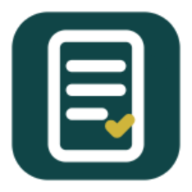
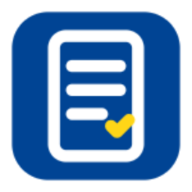
feat: update color palette and branding elements for improved consistency and accessibility

diff --git a/resources/css/app.css b/resources/css/app.css
@@ -76,7 +76,7 @@
     ::before,
     ::backdrop,
     ::file-selector-button {
-        border-color: var(--color-gray-200, currentColor);
+        border-color: var(--color-grey-10, currentColor);
     }
 }
 
@@ -91,107 +91,128 @@
 }
 
 :root {
-    /* Brand palette */
-    --ec-blue-120: #003776;
-    --ec-blue-110: #003776;
-    --ec-blue-100: #004494;
-    --ec-blue-75:  #4073AF;
-    --ec-blue-50:  #7FA1C9;
-    --ec-blue-25:  #BFD0E4;
-    --ec-blue-5:   #F2F5F9;
+    /* Primitive color scales */
+    --grey-5: #f5f5f5;
+    --grey-10: #ebebeb;
+    --grey-15: #e3e3e3;
+    --grey-25: #cfcfcf;
+    --grey-50: #9f9f9f;
+    --grey-75: #707070;
+    --grey-100: #404040;
 
-    --ec-yellow-120: #F8AE21;
-    --ec-yellow-110: #FBC11D;
-    --ec-yellow-100: #ffd617;
-    --ec-yellow-75:  #FFDE39;
-    --ec-yellow-50:  #FFE879;
-    --ec-yellow-25:  #FFF4BB;
+    --blue-5:  #f2f5f9;
+    --blue-25: #bfd0e4;
+    --blue-50: #7fa1c9;
+    --blue-75: #4073af;
+    --blue-100: #004494;
+    --blue-110: #003776;
+    --blue-120: #003776;
 
-    --ec-grey-100: #404040;
-    --ec-grey-75:  #707070;
-    --ec-grey-50:  #9F9F9F;
-    --ec-grey-25:  #CFCFCF;
-    --ec-grey-15:  #E3E3E3;
-    --ec-grey-10:  #EBEBEB;
-    --ec-grey-5:   #F5F5F5;
+    --yellow-25: #fff4bb;
+    --yellow-50: #ffe879;
+    --yellow-75: #ffde39;
+    --yellow-100: #ffd617;
+    --yellow-110: #fbc11d;
+    --yellow-120: #f8ae21;
 
+    --red-n: #da2131;
+    --green-n: #467a39;
+    --orange-n: #f29527;
+    --blue-n: #006fb4;
+    --white: #ffffff;
     --black: #000000;
-    --white: #FFFFFF;
 
-    /* Notification palette */
-    --ec-blue-n:   #006FB4;
-    --ec-orange-n: #F29527;
-    --ec-green-n:  #467A39;
-    --ec-red-n:    #DA2131;
+    /* Extra colors */
+    --dark-blue: #00002e;
 
-    /* Core UI roles */
+    /* Semantic tokens */
     --background: var(--white);
-    --foreground: var(--ec-grey-100);
-    --primary: var(--ec-blue-100);
-    --primary-foreground: var(--white);
-    --secondary: var(--ec-yellow-100);
-    --secondary-foreground: var(--ec-grey-100);
-    --muted: var(--ec-grey-10);
-    --muted-foreground: var(--ec-grey-75);
-    --accent: var(--ec-yellow-100);
-    --accent-foreground: var(--ec-grey-100);
-    --destructive: var(--ec-red-n);
-    --destructive-foreground: var(--white);
-    --border: var(--ec-grey-15);
-    --input: var(--ec-grey-10);
-    --ring: var(--ec-yellow-100);
+    --foreground: var(--grey-100);
+    --card: var(--white);
+    --card-foreground: var(--grey-100);
+    --popover: var(--white);
+    --popover-foreground: var(--blue-100);
 
-    /* Chart/extra roles (customize as needed) */
-    --chart-1: var(--ec-blue-100);
-    --chart-2: var(--ec-yellow-100);
-    --chart-3: var(--ec-grey-50);
-    --chart-4: var(--ec-blue-75);
-    --chart-5: var(--ec-yellow-75);
+    --primary: var(--blue-100);
+    --primary-foreground: var(--white);
+
+    --secondary: var(--yellow-100);
+    --secondary-foreground: var(--grey-100);
+
+    --muted: var(--grey-5);
+    --muted-foreground: var(--grey-75);
+
+    --accent: var(--yellow-25);
+    --accent-foreground: var(--grey-100);
+
+    --destructive: var(--red-n);
+    --destructive-foreground: var(--white);
+
+    --border: var(--grey-10);
+    --input: var(--grey-5);
+    --ring: var(--yellow-50);
+
+    --chart-1: var(--blue-75);
+    --chart-2: var(--yellow-75);
+    --chart-3: var(--grey-25);
+    --chart-4: var(--blue-50);
+    --chart-5: var(--yellow-25);
 
     --radius: 0.5rem;
 
-    /* Sidebar example */
-    --sidebar-background: var(--ec-blue-100);
-    --sidebar-foreground: var(--white);
-    --sidebar-primary: var(--ec-yellow-100);
-    --sidebar-primary-foreground: var(--ec-blue-100);
-    --sidebar-accent: var(--ec-grey-25);
-    --sidebar-accent-foreground: var(--ec-grey-100);
-    --sidebar-border: var(--ec-grey-15);
-    --sidebar-ring: var(--ec-yellow-100);
-    --sidebar: var(--ec-blue-5);
+    --sidebar-background: var(--blue-5);
+    --sidebar-foreground: var(--black);
+    --sidebar-primary: var(--blue-50);
+    --sidebar-primary-foreground: var(--black);
+    --sidebar-accent: var(--blue-25);
+    --sidebar-accent-foreground: var(--black);
+    --sidebar-border: var(--grey-10);
+    --sidebar-ring: var(--yellow-50);
+    --sidebar: var(--blue-50);
 }
 
 .dark {
-    --background: var(--ec-grey-100);
+    --background: var(--black);
     --foreground: var(--white);
-    --card: var(--ec-blue-120);
+    --card: var(--blue-120);
     --card-foreground: var(--white);
-    --popover: var(--ec-blue-120);
+    --popover: var(--blue-120);
     --popover-foreground: var(--white);
-    --primary: var(--ec-yellow-100);
-    --primary-foreground: var(--ec-blue-100);
-    --secondary: var(--ec-grey-75);
-    --secondary-foreground: var(--white);
-    --muted: var(--ec-grey-25);
-    --muted-foreground: var(--ec-grey-5);
-    --accent: var(--ec-yellow-75);
-    --accent-foreground: var(--ec-grey-100);
-    --destructive: var(--ec-red-n);
-    --destructive-foreground: var(--white);
-    --border: var(--ec-grey-25);
-    --input: var(--ec-grey-15);
-    --ring: var(--ec-yellow-100);
 
-    --sidebar-background: var(--ec-blue-120);
-    --sidebar-foreground: var(--ec-yellow-100);
-    --sidebar-primary: var(--ec-yellow-100);
-    --sidebar-primary-foreground: var(--ec-blue-120);
-    --sidebar-accent: var(--ec-grey-50);
+    --primary: var(--yellow-50);
+    --primary-foreground: var(--blue-120);
+
+    --secondary: var(--grey-50);
+    --secondary-foreground: var(--white);
+
+    --muted: var(--grey-75);
+    --muted-foreground: var(--grey-10);
+
+    --accent: var(--yellow-75);
+    --accent-foreground: var(--black);
+
+    --destructive: var(--red-n);
+    --destructive-foreground: var(--white);
+
+    --border: var(--grey-50);
+    --input: var(--grey-75);
+    --ring: var(--yellow-75);
+
+    --chart-1: var(--blue-50);
+    --chart-2: var(--yellow-25);
+    --chart-3: var(--grey-15);
+    --chart-4: var(--blue-100);
+    --chart-5: var(--yellow-25);
+
+    --sidebar-background: var(--blue-120);
+    --sidebar-foreground: var(--yellow-50);
+    --sidebar-primary: var(--yellow-50);
+    --sidebar-primary-foreground: var(--blue-120);
+    --sidebar-accent: var(--grey-25);
     --sidebar-accent-foreground: var(--white);
-    --sidebar-border: var(--ec-grey-25);
-    --sidebar-ring: var(--ec-yellow-100);
-    --sidebar: var(--ec-blue-25);
+    --sidebar-border: var(--grey-50);
+    --sidebar-ring: var(--yellow-75);
+    --sidebar: var(--blue-100);
 }
 
 @layer base {

diff --git a/resources/js/pages/Welcome.vue b/resources/js/pages/Welcome.vue
@@ -13,15 +13,15 @@ import AppLogoIcon from '@/components/AppLogoIcon.vue';
     <nav class="border-b">
       <div class="max-w-6xl mx-auto px-6 py-4 flex items-center justify-between">
         <div class="flex items-center gap-3">
-          <div class="w-8 h-8 bg-tealbrand rounded-md flex items-center justify-center">
-            <AppLogoIcon class="w-5 h-5 text-white" checkColor="#CFB53B" />
+          <div class="w-8 h-8 bg-primary rounded-md flex items-center justify-center">
+            <AppLogoIcon class="w-5 h-5 text-white" checkColor="var(--secondary)" />
           </div>
           <div class="flex flex-col">
             <span class="text-xl font-extrabold leading-tight">
               <span class="text-black">Dynamic</span>
-              <span class="text-tealbrand">Forms</span>
+              <span class="text-secondary">Forms</span>
             </span>
-            <span class="text-xs text-silverbrand">by jdev.ie</span>
+            <span class="text-xs text-muted-foreground">by jdev.ie</span>
           </div>
         </div>
         
@@ -47,7 +47,7 @@ import AppLogoIcon from '@/components/AppLogoIcon.vue';
     <section class="max-w-4xl mx-auto px-6 py-24">
       <h1 class="text-5xl font-extrabold text-gray-900 mb-6">
         <span class="">Create and manage</span>
-        <span class="text-goldbrand"> Forms</span>
+        <span class="text-secondary"> Forms</span>
       </h1>
       <p class="text-xl text-gray-600 mb-8 max-w-2xl">
         Build custom forms, collect responses, and view submissions all in one place.
@@ -77,24 +77,24 @@ import AppLogoIcon from '@/components/AppLogoIcon.vue';
       <div class="max-w-4xl mx-auto px-6">
         <div class="grid md:grid-cols-3 gap-12">
           <div>
-            <div class="w-10 h-10 bg-tealbrand-100 rounded flex items-center justify-center mb-4">
-              <Edit class="w-5 h-5 text-tealbrand-600" />
+            <div class="w-10 h-10 bg-[#bfd0e4] rounded flex items-center justify-center mb-4">
+              <Edit class="w-5 h-5 text-primary" />
             </div>
             <h3 class="font-semibold mb-2">Easy to build</h3>
             <p class="text-gray-600">Create forms with a simple interface</p>
           </div>
           
           <div>
-            <div class="w-10 h-10 bg-tealbrand-100 rounded flex items-center justify-center mb-4">
-              <AppLogoIcon class="w-5 h-5 text-tealbrand-600" />
+            <div class="w-10 h-10 bg-[#bfd0e4] rounded flex items-center justify-center mb-4">
+              <AppLogoIcon class="w-5 h-5 text-primary" />
             </div>
             <h3 class="font-semibold mb-2">Collect responses</h3>
             <p class="text-gray-600">Share your forms and gather submissions</p>
           </div>
           
           <div>
-            <div class="w-10 h-10 bg-tealbrand-100 rounded flex items-center justify-center mb-4">
-              <BarChart3 class="w-5 h-5 text-tealbrand-600" />
+            <div class="w-10 h-10 bg-[#bfd0e4] rounded flex items-center justify-center mb-4">
+              <BarChart3 class="w-5 h-5 text-primary" />
             </div>
             <h3 class="font-semibold mb-2">View results</h3>
             <p class="text-gray-600">See all responses in table or card view</p>
@@ -106,7 +106,7 @@ import AppLogoIcon from '@/components/AppLogoIcon.vue';
     <!-- Footer -->
     <footer class="border-t py-6">
       <div class="max-w-6xl mx-auto px-6 flex items-center justify-between text-sm text-gray-600">
-        <span>© 2025 jdev.ie</span>
+        <span>© {{ new Date().getFullYear() }} dynamicforms.eu</span>
         <div class="flex items-center gap-2">
           <AppLogoIcon class="w-4 h-4" />
           <span>Dynamic Forms</span>

diff --git a/resources/css/brandColors.css b/resources/css/brandColors.css
@@ -2,7 +2,39 @@
   --color-tealbrand: #104547;
   --color-goldbrand: #CFB53B;
   --color-silverbrand: #848482;
+  --color-bluebrand: #004494;
+  --color-yellowbrand: #FFD617;
+  --color-greybrand; #404040;
 }
+
+
+/* Blue scale */
+.bluebrand-5    { background-color: #f2f5f9; color: var(--color-bluebrand); }
+.bluebrand-25   { background-color: #bfd0e4; color: var(--color-bluebrand); }
+.bluebrand-50   { background-color: #7fa1c9; color: var(--color-bluebrand); }
+.bluebrand-75   { background-color: #4073af; color: var(--color-bluebrand); }
+.bluebrand-100  { background-color: #004494; color: var(--color-bluebrand); }
+.bluebrand-110  { background-color: #003776; color: var(--color-bluebrand); }
+.bluebrand-120  { background-color: #003776; color: var(--color-bluebrand); }
+
+/* Yellow scale */
+.yellowbrand-25  { background-color: var(--yellowbrand-25); color: var(--greybrand-100); }
+.yellowbrand-50  { background-color: var(--yellowbrand-50); color: var(--greybrand-100); }
+.yellowbrand-75  { background-color: var(--yellowbrand-75); color: var(--greybrand-100); }
+.yellowbrand-100 { background-color: var(--yellowbrand-100); color: var(--greybrand-100); }
+.yellowbrand-110 { background-color: var(--yellowbrand-110); color: var(--greybrand-100); }
+.yellowbrand-120 { background-color: var(--yellowbrand-120); color: var(--greybrand-100); }
+
+/* Grey scale */
+.greybrand-5   { background-color: var(--greybrand-5); color: var(--greybrand-100); }
+.greybrand-10  { background-color: var(--greybrand-10); color: var(--greybrand-100); }
+.greybrand-15  { background-color: var(--greybrand-15); color: var(--greybrand-100); }
+.greybrand-25  { background-color: var(--greybrand-25); color: var(--greybrand-100); }
+.greybrand-50  { background-color: var(--greybrand-50); color: var(--greybrand-100); }
+.greybrand-75  { background-color: var(--greybrand-75); color: var(--greybrand-5); }
+.greybrand-100 { background-color: var(--greybrand-100); color: var(--greybrand-5); }
+
+
 
 .tealbrand-50 {
   background-color: #E6F6F6;

diff --git a/resources/js/components/layout/AppLogo.vue b/resources/js/components/layout/AppLogo.vue
@@ -4,14 +4,14 @@ import AppLogoIcon from '@/components/AppLogoIcon.vue';
 
 <template>
     <div
-        class="flex aspect-square size-8 items-center justify-center rounded-md bg-sidebar-primary text-sidebar-primary-foreground"
+        class="flex aspect-square size-8 items-center justify-center rounded-md bg-primary text-sidebar-primary-foreground"
     >
         <AppLogoIcon class="size-5 fill-current text-white dark:text-black" />
     </div>
     <div class="ml-1 grid flex-1 text-left text-sm">
         <span class="mb-0.5 truncate leading-tight font-semibold">
             <span class="">Dynamic</span>
-            <span class="text-tealbrand">Forms</span>
+            <span class="text-primary">Forms</span>
         </span>
         <span class="truncate text-xs text-muted-foreground">by jdev.ie</span>
     </div>

diff --git a/resources/js/components/layout/AppSidebar.vue b/resources/js/components/layout/AppSidebar.vue
@@ -40,16 +40,16 @@ watch(formsExpanded, (newValue) => {
 });
 
 const footerNavItems = [
-    {
-        title: 'Github Repo',
-        href: 'https://github.com/laravel/vue-starter-kit',
-        icon: Folder,
-    },
-    {
-        title: 'Documentation',
-        href: 'https://laravel.com/docs/starter-kits#vue',
-        icon: BookOpen,
-    },
+    //{
+    //    title: 'Github Repo',
+    //    href: 'https://github.com/laravel/vue-starter-kit',
+    //    icon: Folder,
+    //},
+    //{
+    //    title: 'Documentation',
+    //    href: 'https://laravel.com/docs/starter-kits#vue',
+    //    icon: BookOpen,
+    //},
 ];
 </script>
 

diff --git a/resources/js/components/layout/NavFooter.vue b/resources/js/components/layout/NavFooter.vue
@@ -25,7 +25,7 @@ defineProps<Props>();
             <SidebarMenu>
                 <SidebarMenuItem v-for="item in items" :key="item.title">
                     <SidebarMenuButton
-                        class="text-neutral-600 hover:text-neutral-800 dark:text-neutral-300 dark:hover:text-neutral-100"
+                        class="text-neutral-300 hover:text-neutral-800 dark:text-neutral-300 dark:hover:text-neutral-100"
                         as-child
                     >
                         <a

diff --git a/resources/js/components/AppLogoIcon.vue b/resources/js/components/AppLogoIcon.vue
@@ -41,7 +41,7 @@ defineProps<Props>();
         <!-- Checkmark accent -->
         <polyline 
             points="14.5,17 15.5,18 17.5,16" 
-            :stroke="checkColor || '#CFB53B'"
+            stroke="var(--secondary)"
             stroke-width="2" 
             stroke-linecap="round" 
             stroke-linejoin="round"
